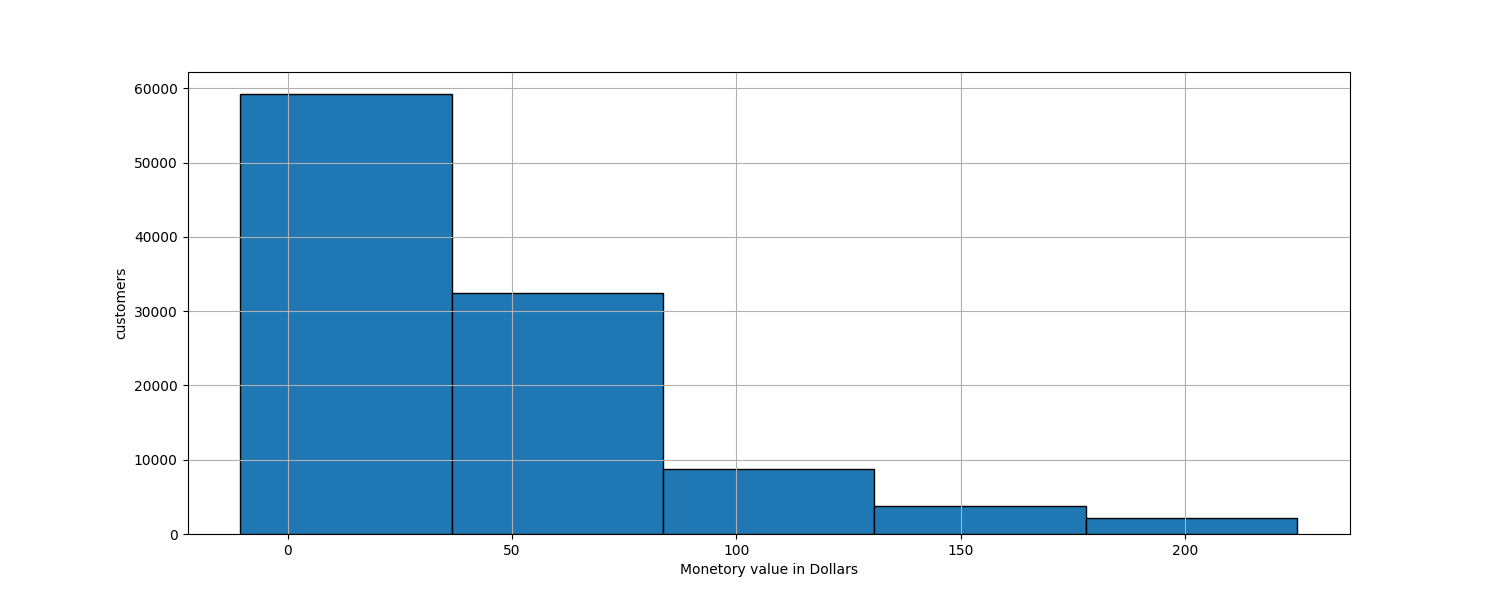
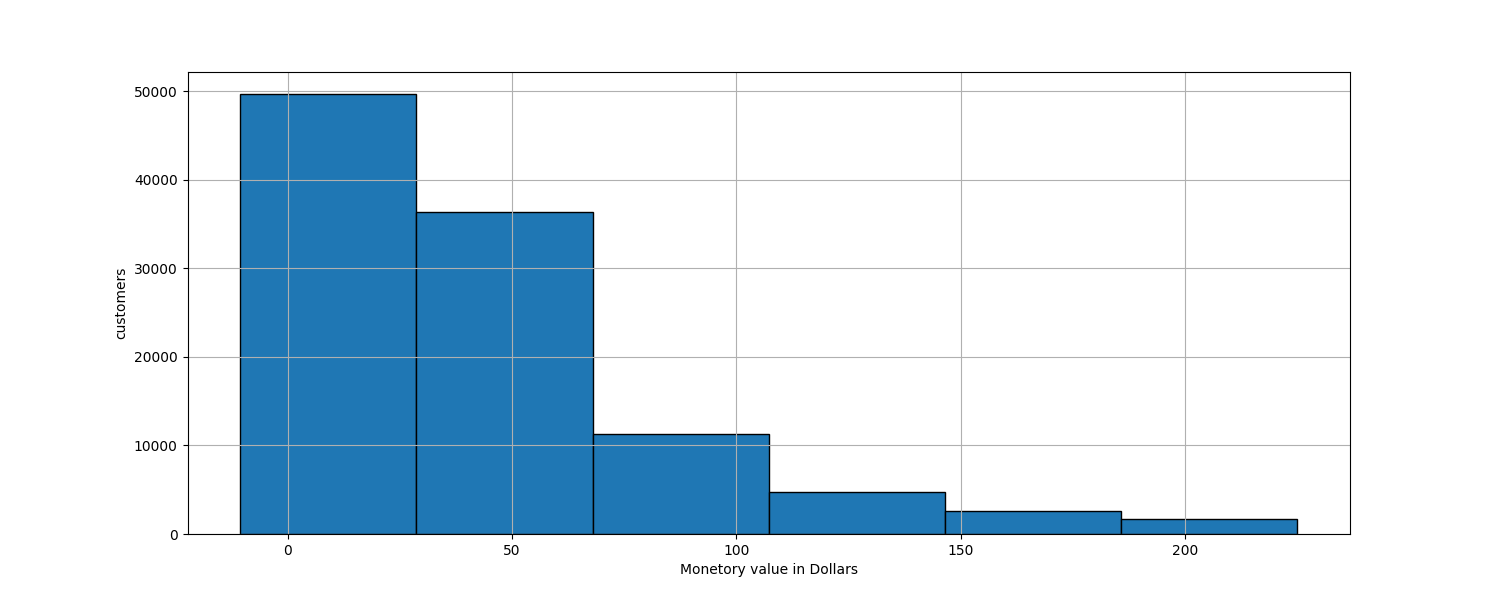
data science 1 complete

diff --git a/data-science1/ex02/points.py b/data-science1/ex02/points.py
@@ -1,0 +1,38 @@
+import pandas as pd
+import matplotlib.pyplot as plt
+
+
+
+train = pd.read_csv('Train_Knight.csv')
+test = pd.read_csv('Test_Knight.csv')
+
+
+sith = train[train['knight'] == 'Sith']
+jedi = train[train['knight'] == 'Jedi']
+
+# plt.figure(figsize=(10, 5))
+# plt.scatter(sith['Empowered'], sith['Stims'], label='Sith', color='red', alpha=0.2)
+# plt.scatter(jedi['Empowered'], jedi['Stims'], label='Jedi', color='blue', alpha=0.5)
+# plt.xlabel('Empowered')
+# plt.ylabel('Stims')
+# plt.legend()
+# plt.show()
+# plt.close()
+
+# plt.figure(figsize=(10, 5))
+# plt.scatter(train['Push'], train['Deflection'], label='Sith', color='red', alpha=0.5)
+# plt.scatter(test['Push'], test['Deflection'], label='Jedi', color='blue', alpha=0.5)
+# plt.xlabel('Push')
+# plt.ylabel('Deflection')
+# plt.legend()
+# plt.show()
+# plt.close()
+
+plt.figure(figsize=(10, 5))
+plt.scatter(sith['Push'], sith['Deflection'], label='Knight', color='green', alpha=0.5)
+plt.scatter(jedi['Push'], jedi['Deflection'], color='green', alpha=0.5)
+plt.xlabel('Push')
+plt.ylabel('Stims')
+plt.legend()
+plt.show()
+plt.close()

diff --git a/data-science1/ex03/standardization.py b/data-science1/ex03/standardization.py
@@ -1,0 +1,31 @@
+import pandas as pd
+import matplotlib.pyplot as plt
+from sklearn.preprocessing import StandardScaler
+
+
+train = pd.read_csv('Train_Knight.csv')
+test = pd.read_csv('Test_Knight.csv')
+
+def standarization(df):
+    for column in df.columns:
+        if column != 'knight':
+            df[column] = (df[column] - df[column].mean()) / df[column].std()
+
+def visualize(df):
+
+    standarization(df)
+    sith = df[df['knight'] == 'Jedi']
+    jedi = df[df['knight'] == 'Sith']
+
+    plt.figure(figsize=(10, 5))
+    plt.scatter(jedi['Empowered'], jedi['Stims'], label='Jedi', color='blue', alpha=0.5)
+    plt.scatter(sith['Empowered'], sith['Stims'], label='Sith', color='red', alpha=0.5)
+    plt.xlabel('Empowered')
+    plt.ylabel('Stims')
+    plt.legend()
+    plt.show()
+    plt.close()
+
+
+if __name__ == '__main__':
+    visualize(train)

diff --git a/data-science1/ex04/Normalization.py b/data-science1/ex04/Normalization.py
@@ -1,0 +1,27 @@
+import pandas as pd
+import matplotlib.pyplot as plt
+
+
+train = pd.read_csv('Train_Knight.csv')
+
+def normalization(df):
+    for column in df.columns:
+        if column != 'knight':
+            df[column] = (df[column] - df[column].min()) / (df[column].max() - df[column].min())
+
+def visualize(df):
+    normalization(df)
+    jedi = df[df['knight'] == 'Jedi']
+    sith = df[df['knight'] == 'Sith']
+
+    plt.figure(figsize=(10, 5))
+    plt.scatter(jedi['Push'], jedi['Deflection'], label='Jedi', color='blue', alpha=0.5)
+    plt.scatter(sith['Push'], sith['Deflection'], label='Sith', color='red', alpha=0.5)
+    plt.xlabel('Push')
+    plt.ylabel('Deflection')
+    plt.legend()
+    plt.show()
+    plt.close()
+
+if __name__ == '__main__':
+    visualize(train)

diff --git a/data-analytics/ex05/Clustering.py b/data-analytics/ex05/Clustering.py
@@ -46,11 +46,11 @@ def clustering():
         colors = ['#d6d6d6', '#f5f200', 'red', '#f2eaa5', 'green']
 
         plt.figure(figsize=(10,6))
-        # plt.barh(counts.index, counts.values, color=colors)
-        # plt.xlabel('Number of customers')
-        # plt.title('customers segmentation')
-        # plt.savefig('script/customer_segment.png', format='png')
-        # print('segmentation saved as scriptcustomer_segment.png', flush=True)
+        plt.barh(counts.index, counts.values, color=colors)
+        plt.xlabel('Number of customers')
+        plt.title('customers segmentation')
+        plt.savefig('script/customer_segment.png', format='png')
+        print('segmentation saved as scriptcustomer_segment.png', flush=True)
         plt.close()
 
         # Bubble chart

diff --git a/data-analytics/ex00/pie.py b/data-analytics/ex00/pie.py
@@ -31,7 +31,7 @@ try:
     event_colors = {'view': 'blue', 'purchase': 'red', 'remove_from_cart': 'green', 'cart': 'orange'}
     event_types, counts = zip(*data)
     plt.pie(counts, labels=[f"{event_type}" for event_type in event_types],
-            autopct='%1.1f%%', startangle=0, colors=[event_colors.get(event, 'gray') for event in event_types])
+            autopct='%1.1f%%', startangle=0, colors=[event_colors.get(event, 'gray') for event in event_types], explode=[0.01 for event in event_types])
     plt.axis('equal')
     plt.savefig("script/pie_chart.png", format="png")
 except Exception as e:

diff --git a/data-analytics/ex02/mustache.py b/data-analytics/ex02/mustache.py
@@ -22,7 +22,7 @@ def load():
 
         price, event_time = zip(*data)
         count = len(data)
-        mean = np.mean(price)
+        std = np.std(price)
         median = np.median(price)
         min = np.min(price)
         max = np.max(price)
@@ -31,7 +31,7 @@ def load():
         q3 = np.percentile(price, 75)
 
         print(f"Count: {count}", flush=True)
-        print(f"Mean: {mean}", flush=True)
+        print(f"Standard Deviation: {std}", flush=True)
         print(f"Median: {median}", flush=True)
         print(f"Min: {min}", flush=True)
         print(f"Max: {max}", flush=True)

diff --git a/data-science1/ex05/split.py b/data-science1/ex05/split.py
@@ -1,0 +1,18 @@
+import pandas as pd
+
+
+df = pd.read_csv('Train_Knight.csv')
+
+
+df = df.sample(frac=1, random_state=42)
+
+split = int(len(df) * 0.8)
+
+train = df[:split]
+test = df[split:]
+
+train.to_csv('Training_knight.csv', index=False)
+test.to_csv('Validation_knight.csv', index=False)
+
+print("files saved sucessfuly")
+        

diff --git a/data-analytics/ex03/Building.py b/data-analytics/ex03/Building.py
@@ -38,7 +38,7 @@ def freq():
     plt.figure(figsize=(15, 6))
     plt.grid(True, zorder=-1)
     count1 = [row[1] for row in result1]
-    plt.hist(count1, bins=5, edgecolor='k')
+    plt.hist(count1, bins=6, edgecolor='k')
     plt.xlabel('Monetory value in Dollars')
     plt.ylabel('customers')
     # plt.xticks(range(0, 200, 50))

diff --git a/data-analytics/ex01/chart2.py b/data-analytics/ex01/chart2.py
@@ -55,6 +55,8 @@ def load():
         print(f"An error occurred: {e}", flush=True)
         return None
 
+# spine 
+# set_tick_params
 
 if __name__ == '__main__':
     load()
